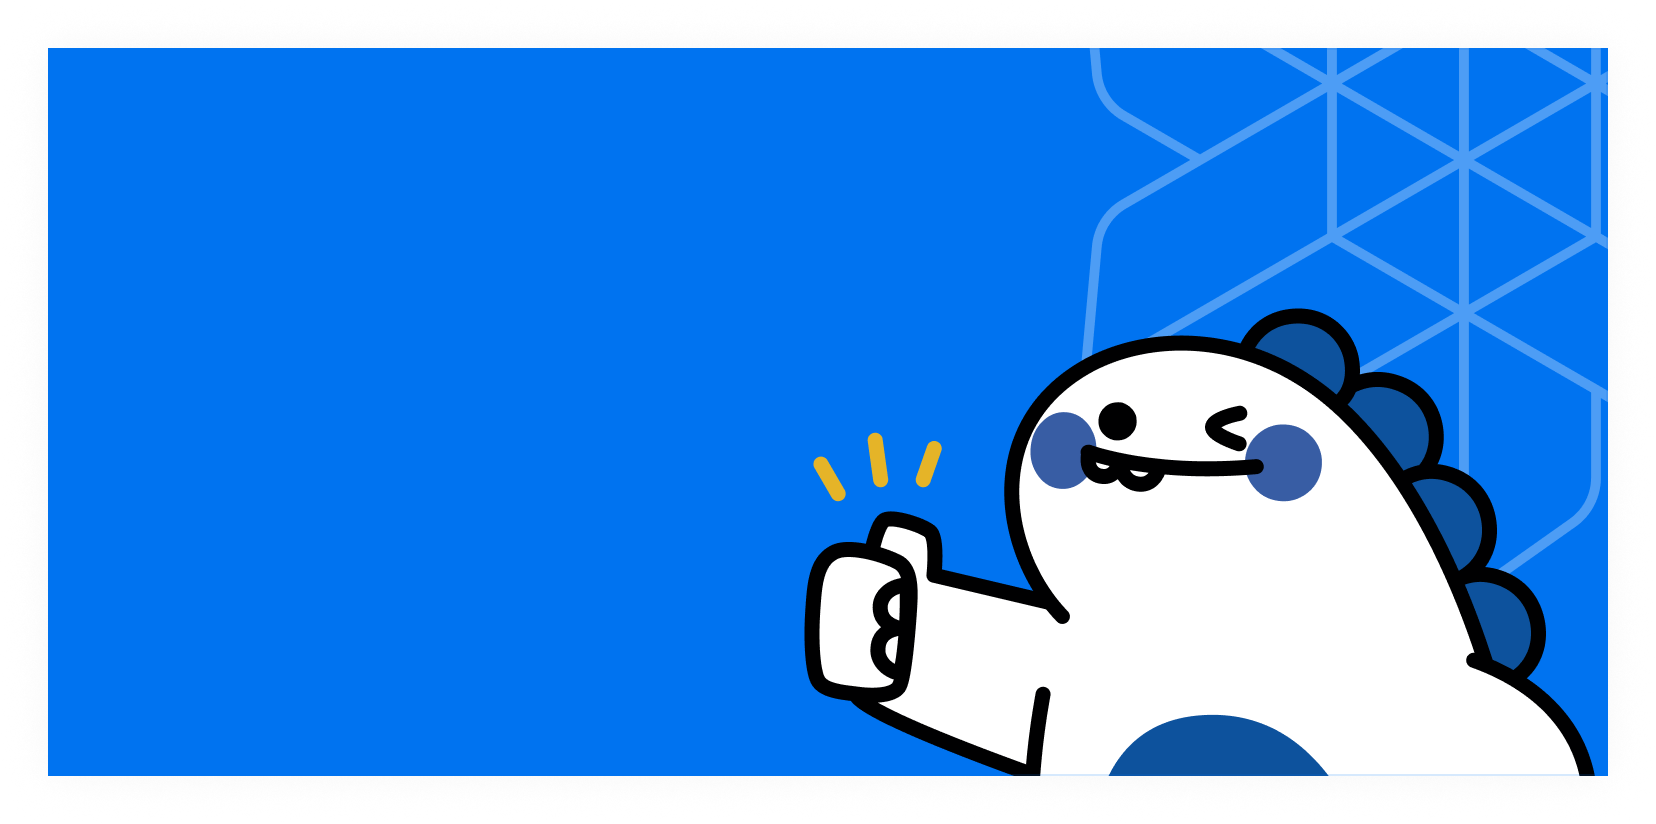
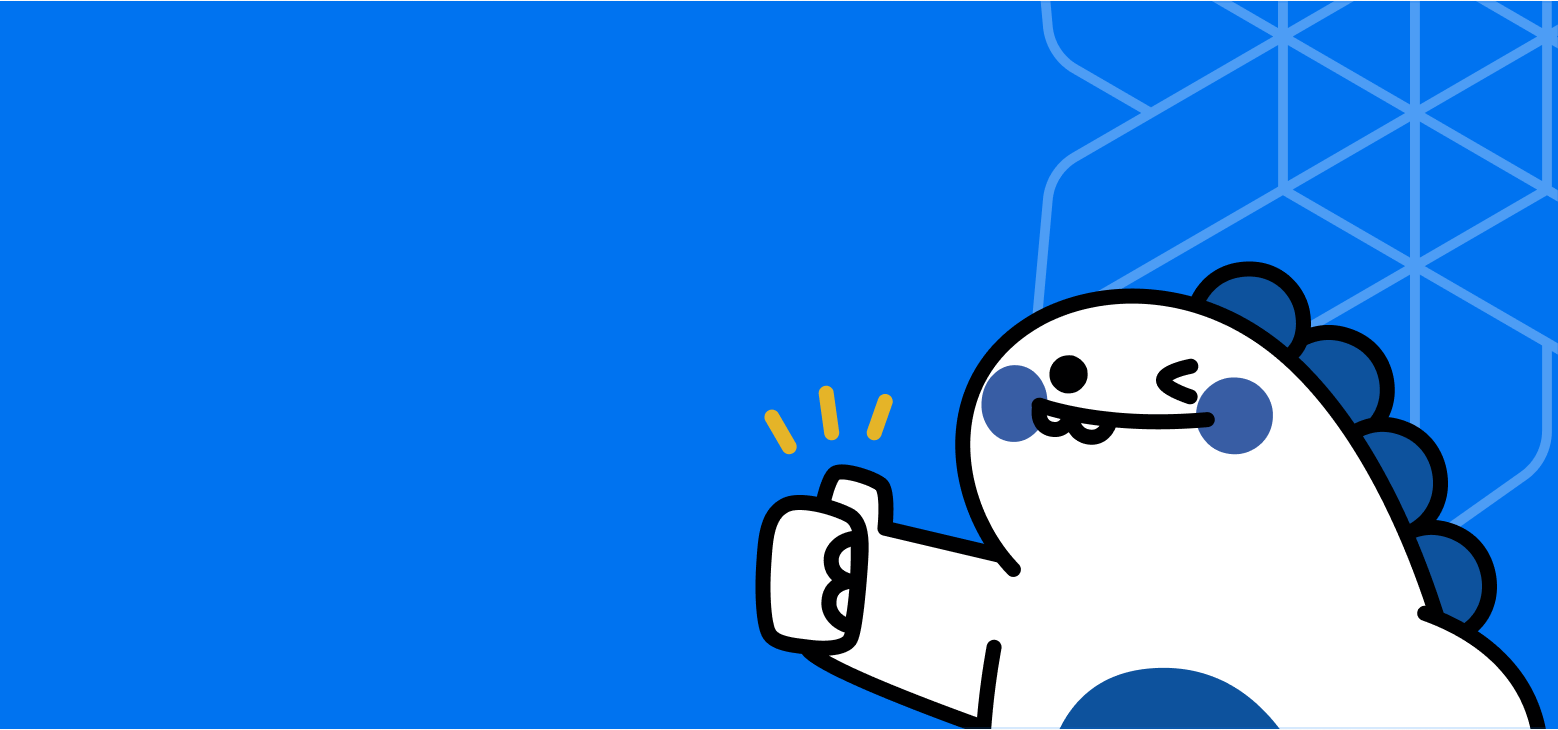
feat : make touch slider works

Changed region(s): [[0.0, 0.0, 1.0, 1.0]]

diff --git a/src/components/main/SlideBanner.vue b/src/components/main/SlideBanner.vue
@@ -1,19 +1,102 @@
 <template>
-  <div class="relative">
-    <div class="min-h-[178px] bg-slide-banner-2 bg-cover bg-no-repeat bg-right-top relative rounded-3xl border-primary border-1">
-      <div class="absolute top-5 right-4 items-end flex flex-col">
-        <div class="px-[18px] py-0.5 font-pretendard text-xs text-primary-700 font-bold bg-white rounded-full">다양한 즐길 거리가 가득!</div>
-        <div class="pt-1 px-0.5 font-pretendard text-base text-white">티노와 함께 알아보는</div>
-        <div class="px-0.5 mt-[-4px] font-bold font-pretendard text-base text-white">대동제 축제 부스!</div>
+  <div class="relative rounded-3xl overflow-hidden w-full h-[178px]" ref="sliderContainer">
+    <div class="flex transition-transform duration-500 ease" :style="{ transform: `translateX(-${currentIndex * 100}%)` }">
+      <div class="min-w-full min-h-[178px] bg-slide-banner-1 bg-cover bg-no-repeat bg-left-top relative border-primary border-1">
+        <div class="absolute top-5 left-4 flex flex-col items-start">
+          <div class="px-[18px] py-0.5 font-pretendard text-xs text-primary-700 font-bold bg-white rounded-full">이제 기다리지 마세요!</div>
+          <div class="pt-1 px-0.5 font-pretendard text-base text-white">빠른 입장을 도와주는</div>
+          <div class="px-0.5 leading-none font-bold font-pretendard text-base text-white">학과 주점 예약 시스템 '테이블링'</div>
+        </div>
+        <div class="absolute bottom-4 left-4">
+          <div class="text-white font-pretendard font-bold text-xs px-4 py-1.5 rounded-full border-white border-2" @click="handleClickMoveTabling()">테이블링 탭으로 이동 -></div>
+        </div>
+      </div>
+      <div class="min-w-full min-h-[178px] bg-slide-banner-2 bg-cover bg-no-repeat bg-right-top relative border-primary border-1">
+        <div class="absolute top-5 right-4 flex flex-col items-end">
+          <div class="px-[18px] py-0.5 font-pretendard text-xs text-primary-700 font-bold bg-white rounded-full">다양한 즐길 거리가 가득!</div>
+          <div class="pt-1 px-0.5 font-pretendard text-base text-white">티노와 함께 알아보는</div>
+          <div class="px-0.5 leading-none font-bold font-pretendard text-base text-white">대동제 축제 부스!</div>
+        </div>
+        <div class="absolute bottom-4 right-4">
+          <div class="text-white font-pretendard font-bold text-xs px-4 py-1.5 rounded-full border-white border-2" @click="handleClickMoveBooth()">축제 부스 탭으로 이동 -></div>
+        </div>
       </div>
     </div>
-    <div class="absolute bottom-4 right-4">
-      <div class="text-white font-pretendard font-bold text-xs px-4 py-1.5 rounded-full border-white border-2">축제 부스 탭으로 이동 -></div>
+    <div class="absolute bottom-2 left-1/2 transform -translate-x-1/2 flex space-x-2">
+      <span
+        v-for="(dot, index) in totalSlides"
+        :key="index"
+        class="w-1.5 h-1.5 rounded-full"
+        :class="currentIndex == index ? 'bg-primary-700 border-1 border-white' : 'bg-white border-1 border-primary-700'"
+      ></span>
     </div>
   </div>
 </template>
 
-<script setup></script>
+<script setup>
+import { ref, onMounted } from 'vue';
+import { useRouter } from 'vue-router';
+
+const router = useRouter();
+
+const handleClickMoveBooth = () => {
+  router.push({ name: 'booth' });
+};
+
+const handleClickMoveTabling = () => {
+  router.push({ name: 'tabling' });
+};
+
+const currentIndex = ref(0);
+const sliderContainer = ref(null);
+const totalSlides = 2;
+
+let startX = 0;
+let isDragging = false;
+
+const handleTouchStart = (event) => {
+  startX = event.touches[0].clientX;
+  isDragging = true;
+};
+
+const handleTouchMove = (event) => {
+  if (!isDragging) return;
+  const touchX = event.touches[0].clientX;
+  const moveX = startX - touchX;
+  if (moveX > 50) {
+    nextSlide();
+    isDragging = false;
+  } else if (moveX < -50) {
+    prevSlide();
+    isDragging = false;
+  }
+};
+
+const handleTouchEnd = () => {
+  isDragging = false;
+};
+
+const nextSlide = () => {
+  currentIndex.value = (currentIndex.value + 1) % totalSlides;
+};
+
+const prevSlide = () => {
+  currentIndex.value = (currentIndex.value - 1 + totalSlides) % totalSlides;
+};
+
+onMounted(() => {
+  const slider = sliderContainer.value;
+  slider.addEventListener('touchstart', handleTouchStart);
+  slider.addEventListener('touchmove', handleTouchMove);
+  slider.addEventListener('touchend', handleTouchEnd);
+
+  return () => {
+    slider.removeEventListener('touchstart', handleTouchStart);
+    slider.removeEventListener('touchmove', handleTouchMove);
+    slider.removeEventListener('touchend', handleTouchEnd);
+  };
+});
+</script>
 
 <style scoped>
 </style>
